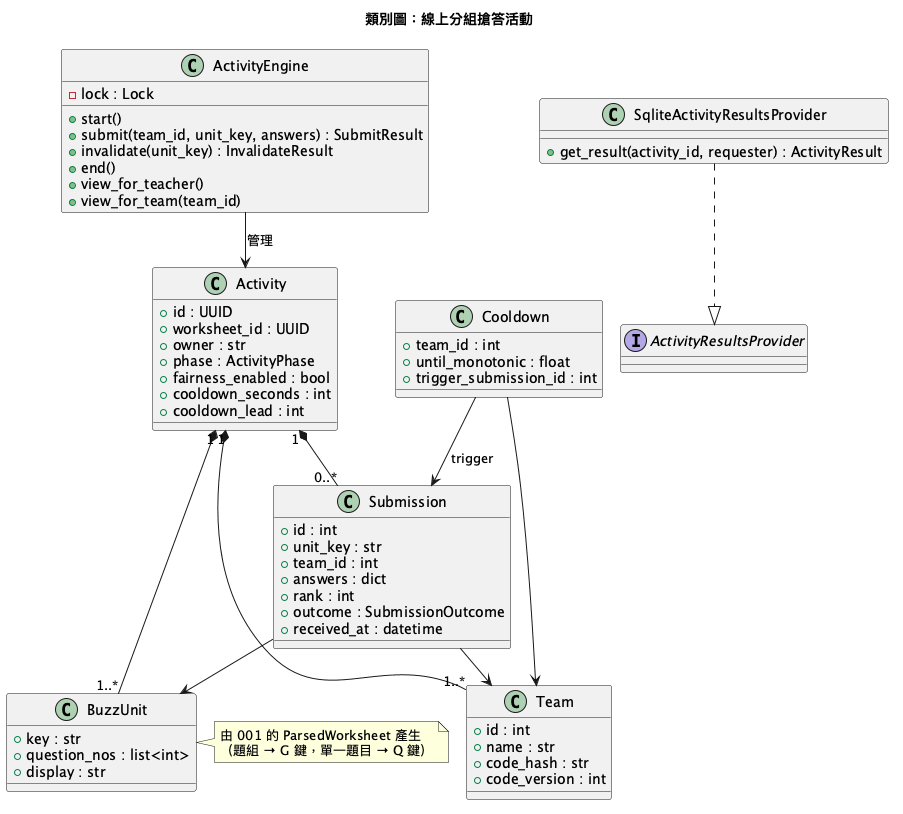
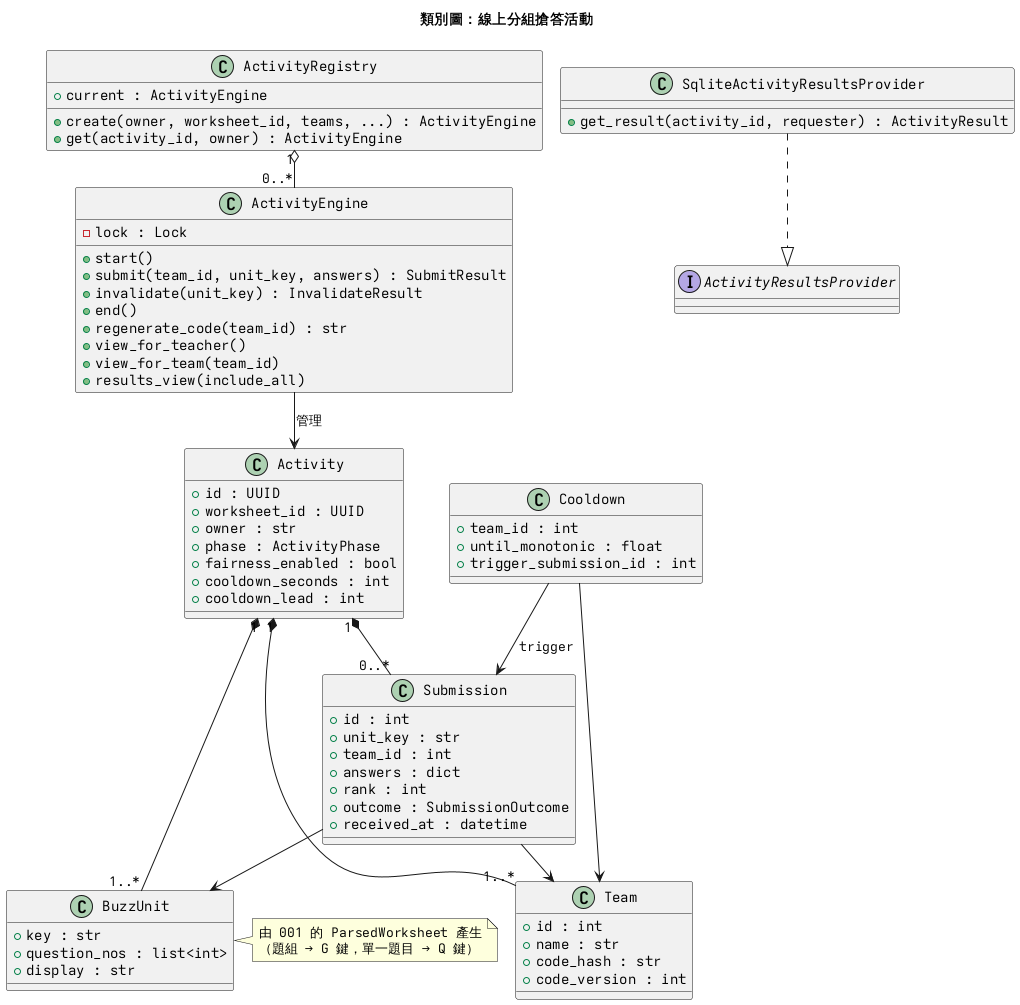
docs(002): 依實作重新產生類別圖與組件圖 PNG（T063）

diff --git a/specs/002-online-buzz-activity/tasks.md b/specs/002-online-buzz-activity/tasks.md
@@ -182,7 +182,7 @@ description: "Task list for 002 線上分組搶答活動"
 - [x] T060 [P] 撰寫 tests/integration/test_latency.py：1 個老師與 12 個學生 WebSocket 連線，量測從 start 到所有連線收到 phase_changed 的時間 < 2 秒，以及送出後老師收到 submission 的時間 < 2 秒（SC-001）
 - [x] T061 [P] 擴充 001 的 tests/integration/test_no_secrets.py：完成一場搶答活動後，caplog 中不含任何組別代碼、學生 Token、老師 Token 與答案字串
 - [x] T062 [P] 更新 README.md：加入搶答活動的操作流程、新增的環境變數名稱與用途、固定 workers=1 的原因、以多個視窗模擬的方法
-- [ ] T063 （.puml 已更新 08-class、09-component；本機無 PlantUML，PNG 待重新產生）對照實作更新 diagrams/002-online-buzz-activity/ 的 .puml 並重新產生 PNG，確認 9 張圖與最終程式碼一致（Constitution 原則 VII 實作階段驗證）
+- [x] T063 對照實作更新 diagrams/002-online-buzz-activity/ 的 .puml 並重新產生 PNG，確認 9 張圖與最終程式碼一致（Constitution 原則 VII 實作階段驗證）
 - [ ] T064 （自動化測試已通過；quickstart V1–V7 人工驗證待執行）執行 `uv run pytest -v` 與 quickstart.md 的 V1–V7 人工驗證，並回報測試指令、通過與失敗數、失敗輸出及人工驗證結果（Constitution 原則 VI）
 
 ---

diff --git a/specs/002-online-buzz-activity/diagrams.md b/specs/002-online-buzz-activity/diagrams.md
@@ -1,7 +1,7 @@
 # Diagrams: 線上分組搶答活動
 
 **審閱**：2026-11-23，9 張 .puml 已逐張對照 spec.md、data-model.md、contracts/，內容一致（tasks T001）。
-本機未安裝 PlantUML，PNG 沿用 repo 中既有版本；之後修改 .puml 時須重新產生。
+實作後已依程式碼更新 08-class、09-component 並重新產生 PNG（tasks T063，PlantUML 1.2024.8）。
 
 **Feature**: [spec.md](./spec.md) | **Data model**: [data-model.md](./data-model.md) | **API**: [contracts/](./contracts/)
 
